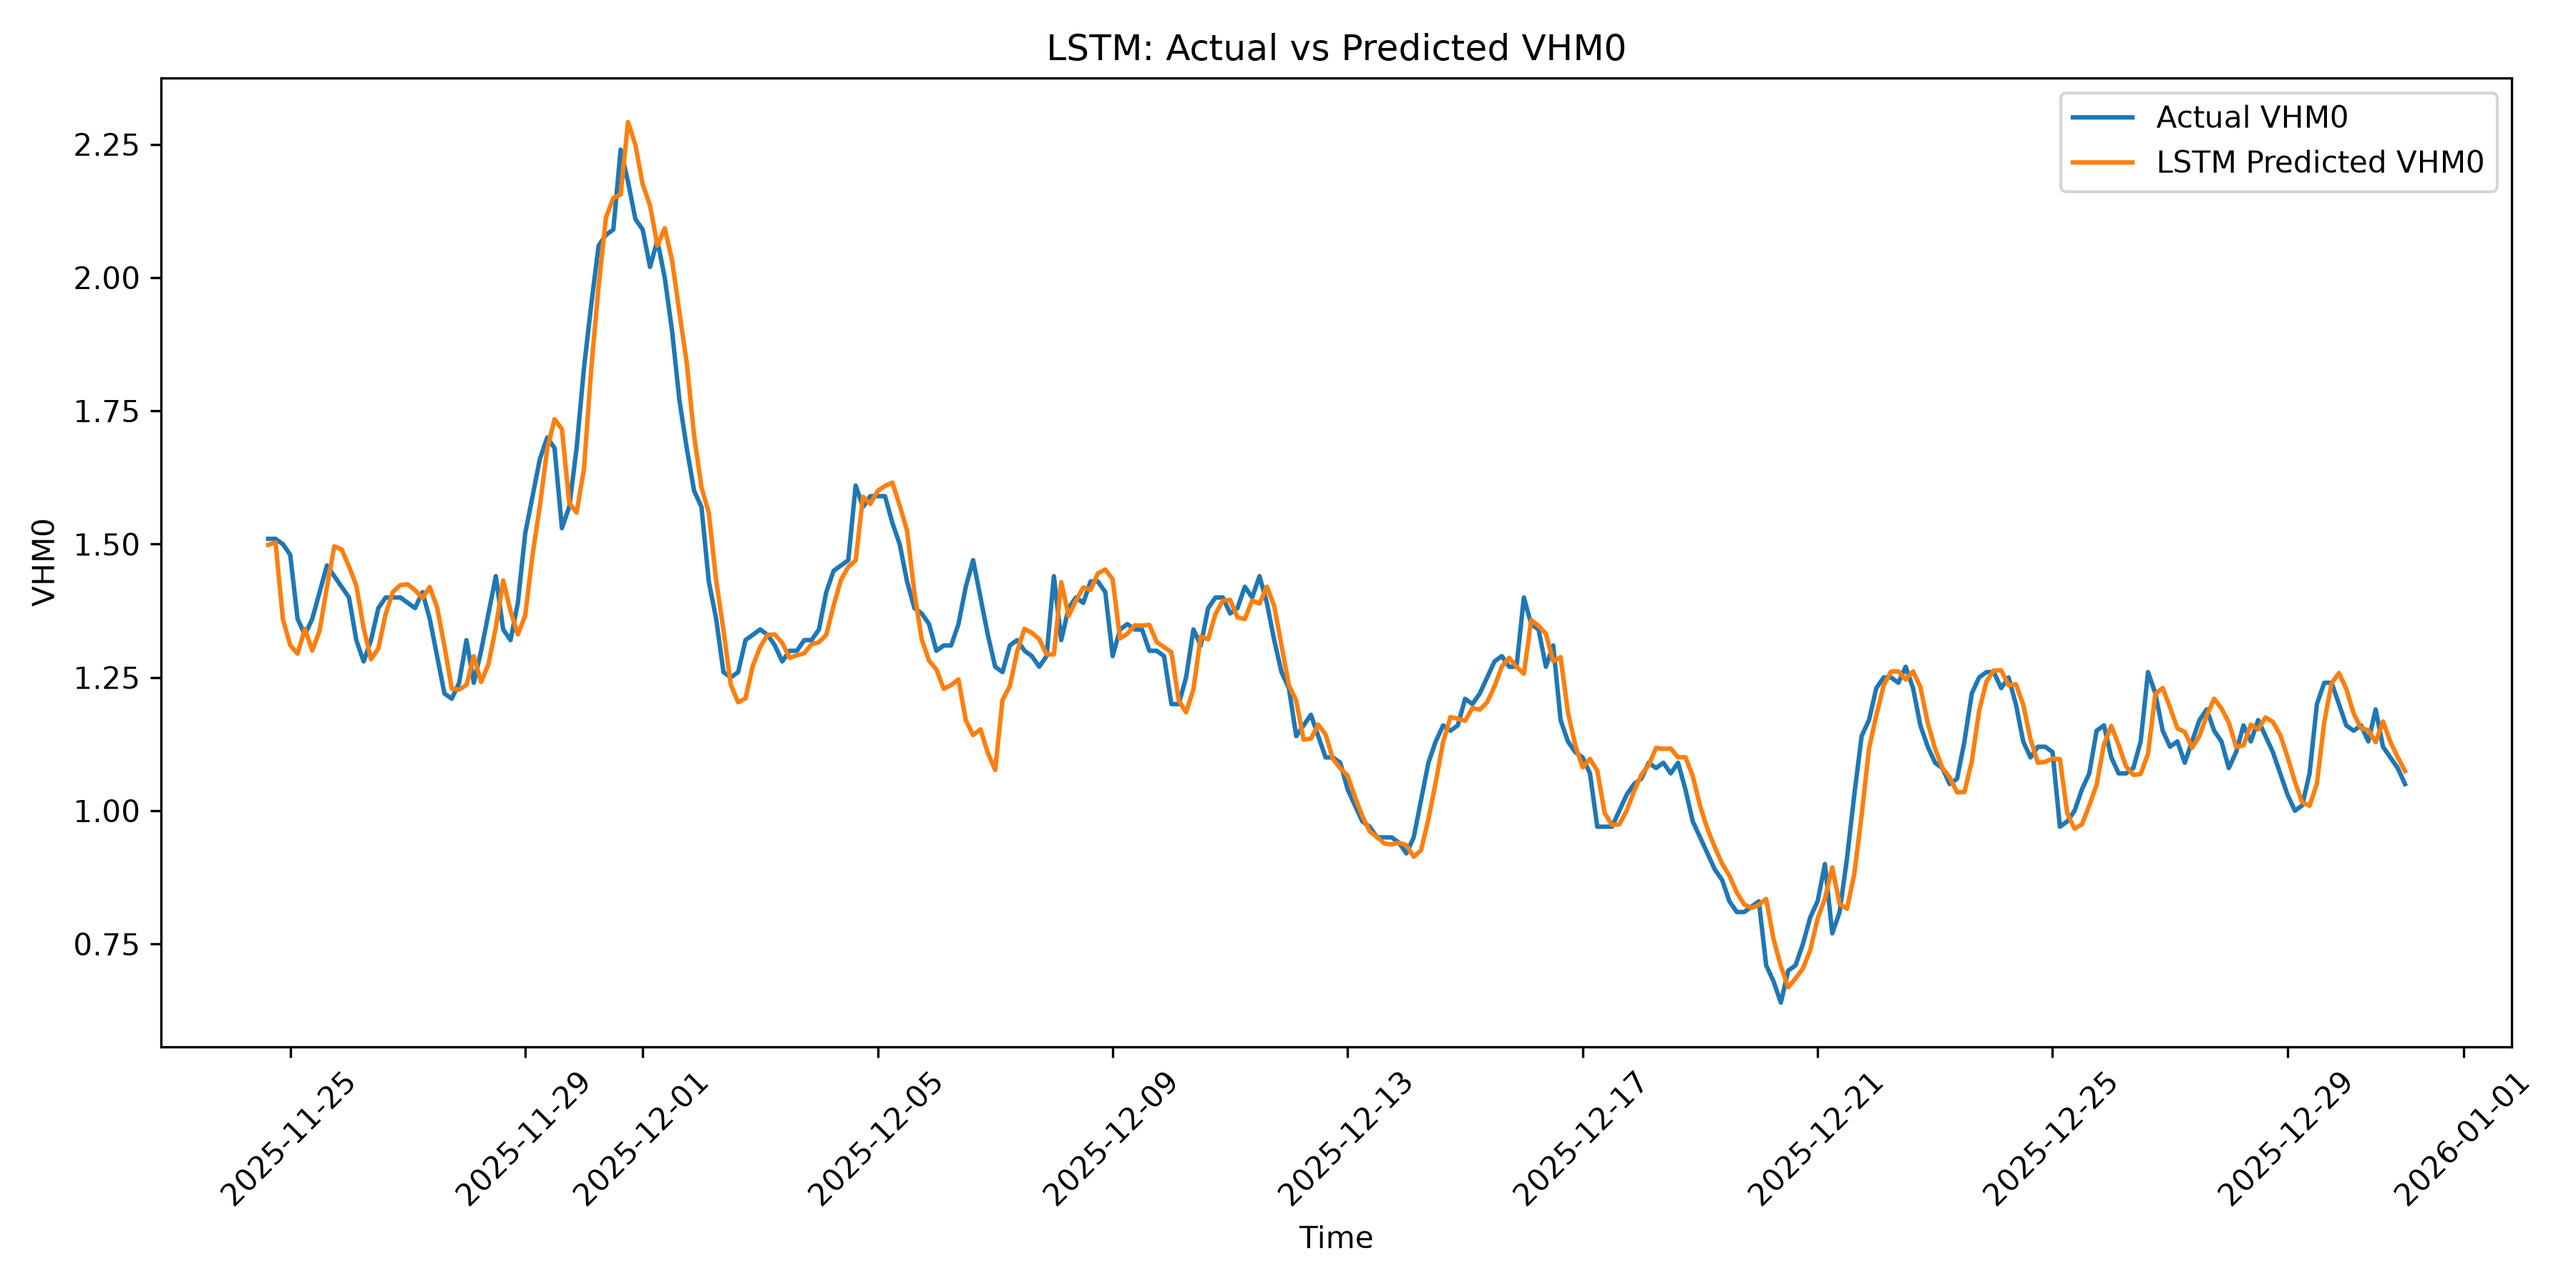
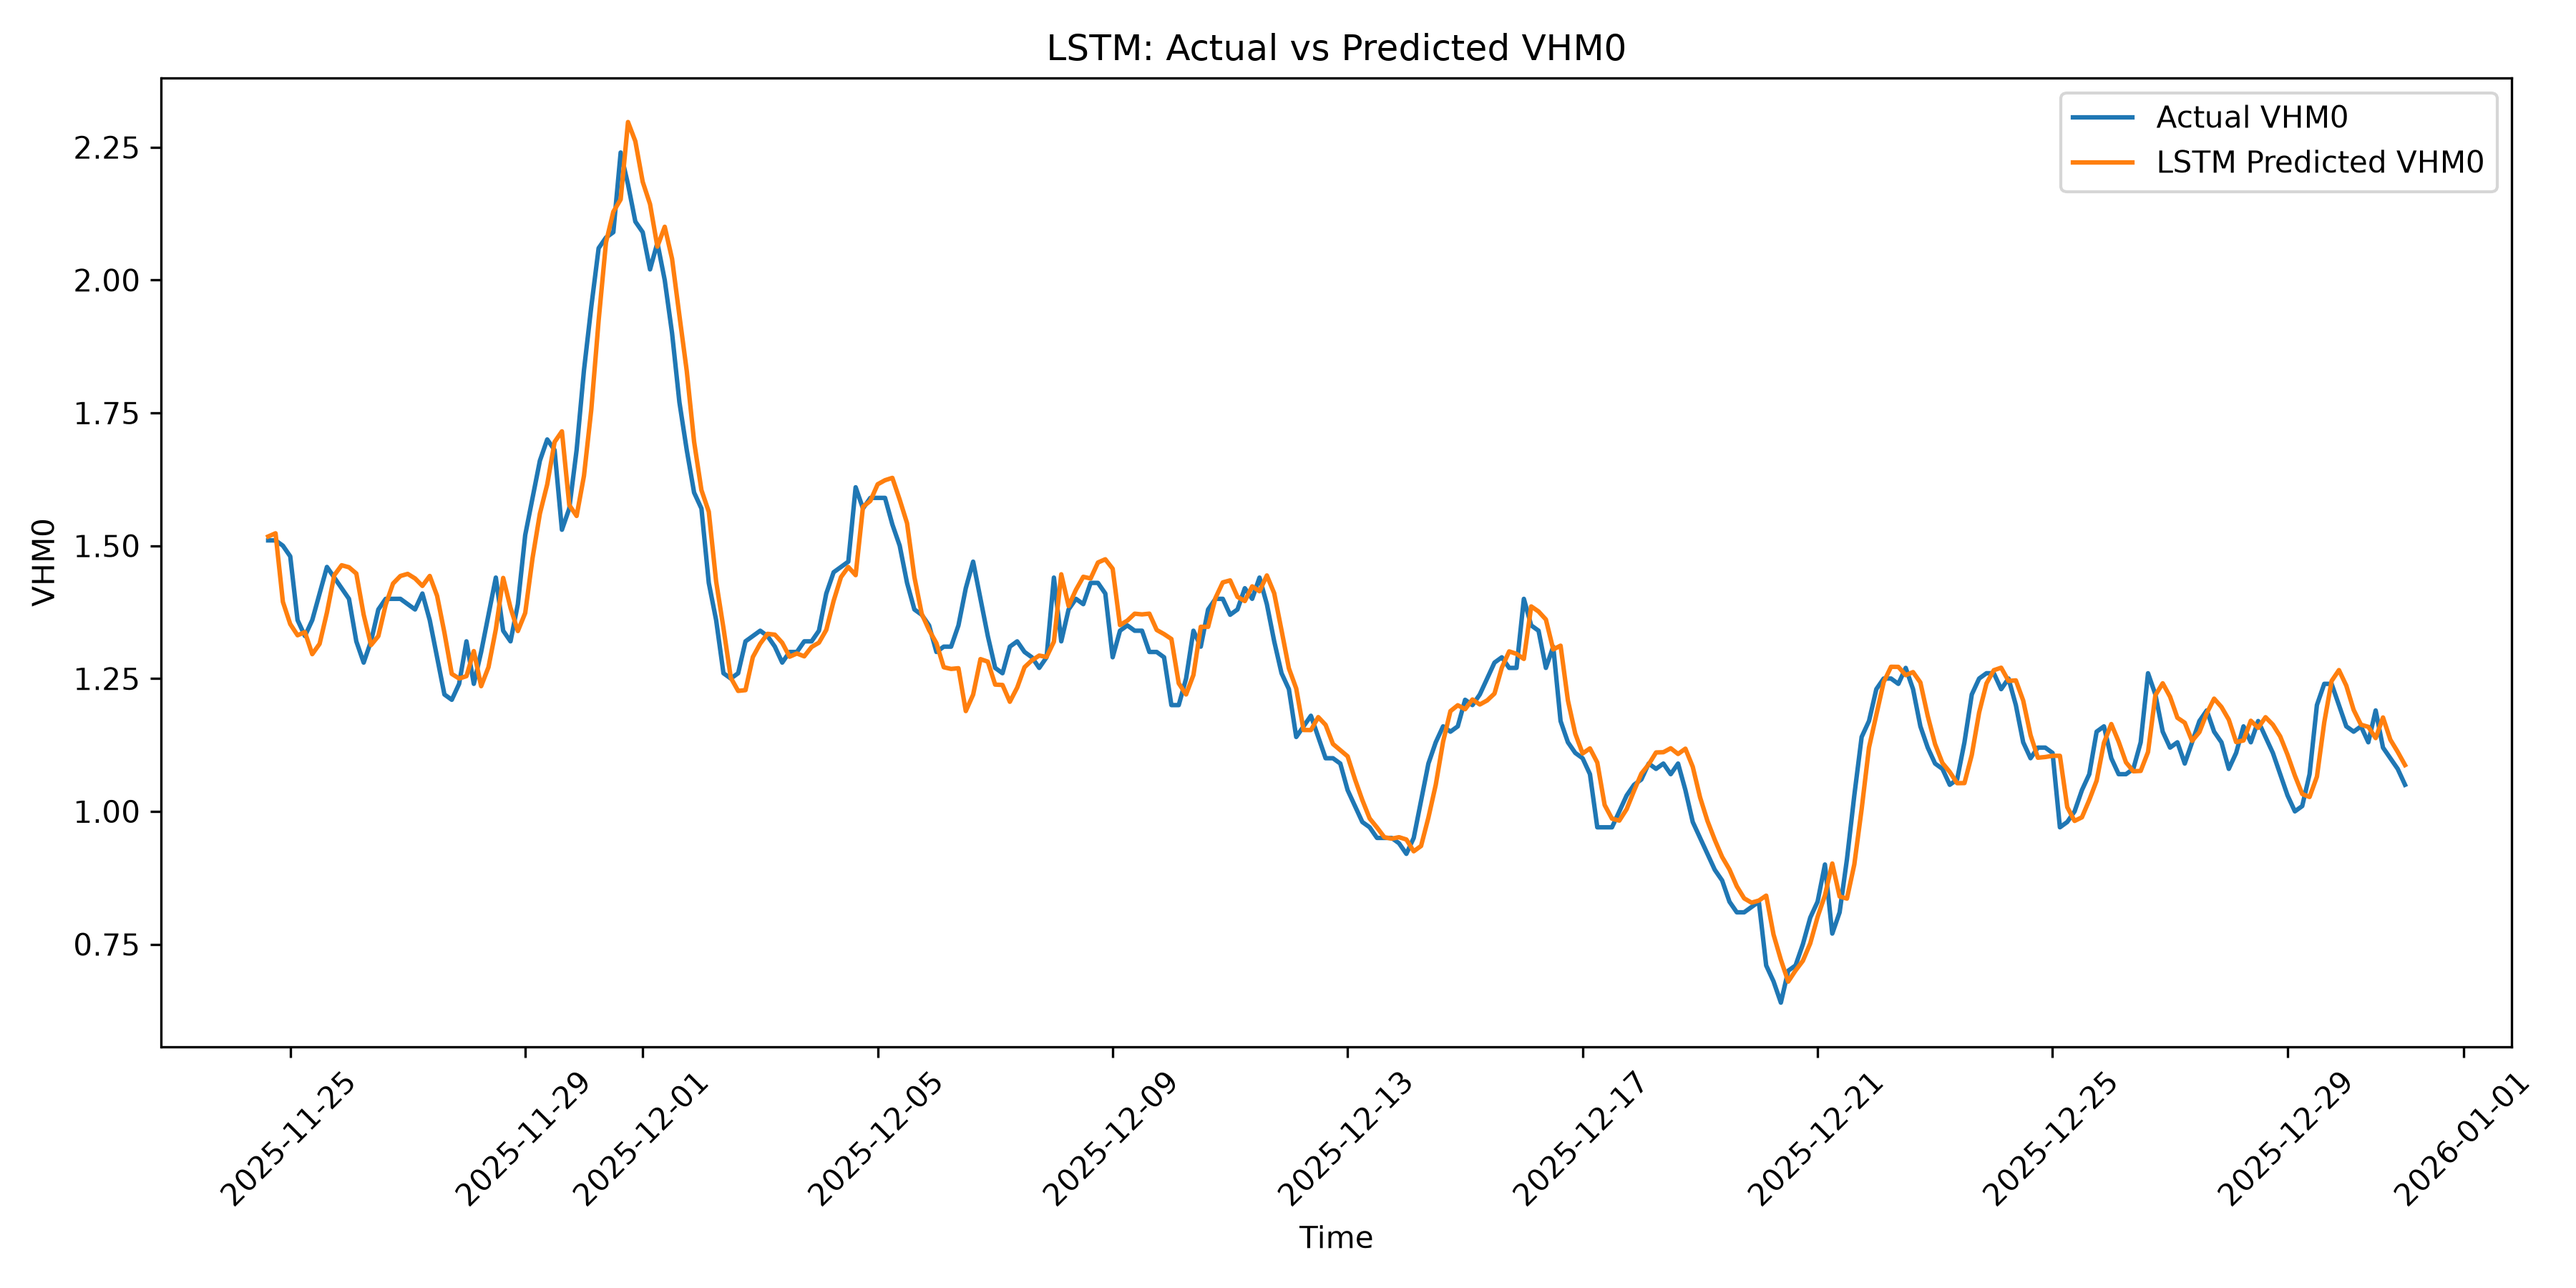
Update ocean route safety and ML results

diff --git a/backend/main.py b/backend/main.py
@@ -1203,7 +1203,9 @@ def point_is_land(
         LAND_GDF is None
         or LAND_GDF.empty
     ):
-        return False
+        raise RuntimeError(
+            "Land data is unavailable; route cannot be considered ocean-safe."
+        )
 
     try:
 
@@ -1215,8 +1217,6 @@ def point_is_land(
         #
         # Natural Earth 10m land polygons are generalized and can
         # incorrectly cover narrow Norwegian fjord water.
-        # This small demo-area exception prevents a false
-        # "vessel is on land" result.
         # --------------------------------------------------------
 
         if (
@@ -1236,9 +1236,15 @@ def point_is_land(
             .any()
         )
 
-    except Exception:
+    except Exception as exc:
 
-        return False
+        print(
+            f"LAND POINT CHECK ERROR: {exc}"
+        )
+
+        raise RuntimeError(
+            "Land point detection failed; route cannot be considered ocean-safe."
+        )
 
 
 def segment_crosses_land(
@@ -1252,8 +1258,9 @@ def segment_crosses_land(
         LAND_GDF is None
         or LAND_GDF.empty
     ):
-
-        return False
+        raise RuntimeError(
+            "Land data is unavailable; route cannot be considered ocean-safe."
+        )
 
     try:
 
@@ -1274,9 +1281,15 @@ def segment_crosses_land(
             .any()
         )
 
-    except Exception:
+    except Exception as exc:
 
-        return False
+        print(
+            f"LAND SEGMENT CHECK ERROR: {exc}"
+        )
+
+        raise RuntimeError(
+            "Land segment detection failed; route cannot be considered ocean-safe."
+        )
 
 
 def route_crosses_land(
@@ -1302,6 +1315,67 @@ def route_crosses_land(
 
     return False
 
+def validate_ocean_route(
+    points,
+    start_lat,
+    start_lon,
+    destination_lat,
+    destination_lon
+):
+
+    if LAND_GDF is None or LAND_GDF.empty:
+        raise RuntimeError(
+            "Land data is unavailable; route cannot be considered ocean-safe."
+        )
+
+    if not points:
+        return False
+
+    if point_is_land(
+        start_lat,
+        start_lon
+    ):
+        return False
+
+    if point_is_land(
+        destination_lat,
+        destination_lon
+    ):
+        return False
+
+    for point in points:
+
+        if point_is_land(
+            point["latitude"],
+            point["longitude"]
+        ):
+            return False
+
+    for i in range(
+        len(points) - 1
+    ):
+
+        if segment_crosses_land(
+            points[i]["latitude"],
+            points[i]["longitude"],
+            points[i + 1]["latitude"],
+            points[i + 1]["longitude"]
+        ):
+            return False
+
+    final_point = points[-1]
+
+    final_distance = haversine_km(
+        final_point["latitude"],
+        final_point["longitude"],
+        destination_lat,
+        destination_lon
+    )
+
+    if final_distance > 1.0:
+        return False
+
+    return True
 
 # ============================================================
 # DISTANCE TO SHORE
@@ -7081,11 +7155,11 @@ def optimize_route_from_ais(
 
         step_distance = min(
 
-            5.0,
+            1.5,
 
             max(
-                0.5,
-                distance / 20.0
+                0.6,
+                distance / 45.0
             )
 
         )
@@ -7255,24 +7329,37 @@ def optimize_route_from_ais(
 
             turn_penalty = abs(float(turn))
 
-            # NORMAL / OPTIMIZED:
-            # Prefer efficient progress toward destination.
+            # Keep PPO steering as the primary navigation decision.
+            # Small deviations are allowed when they improve progress
+            # or help the route remain clear of land.
+            ppo_deviation = abs(
+                float(turn) - float(ppo_turn)
+            )
+
+            # Penalize abrupt steering changes.
+            smoothness_penalty = (
+                abs(float(turn)) * 0.08
+            )
+
+            # Prefer progress while keeping PPO influential.
             if route_mode == "OPTIMIZED":
 
                 candidate_score = (
                     remaining_distance
                     +
-                    (turn_penalty * 0.02)
+                    (ppo_deviation * 0.18)
+                    +
+                    (smoothness_penalty * 0.35)
                 )
 
-            # SAFEST / HIGH_WAVE:
-            # Prefer smoother and more conservative turns.
             else:
 
                 candidate_score = (
                     remaining_distance
                     +
-                    (turn_penalty * 0.12)
+                    (ppo_deviation * 0.25)
+                    +
+                    (smoothness_penalty * 0.60)
                 )
 
             if hazard == "HIGH_WAVE":
@@ -7431,15 +7518,23 @@ def optimize_route_from_ais(
         ):
 
             print(
-            )
-
-            print(
                 "GLOBAL ROUTER: direct path is ocean-safe."
             )
 
             print(
-                "GLOBAL ROUTER: continuing to A* for route optimization."
+                "GLOBAL ROUTER: using direct route."
             )
+
+            return [
+                (
+                    start_lat,
+                    start_lon
+                ),
+                (
+                    goal_lat,
+                    goal_lon
+                )
+            ]
 
         else:
 
@@ -8885,6 +8980,29 @@ def optimize_route_from_ais(
         )
 
     # ========================================================
+    # ========================================================
+    # CENTRAL FINAL OCEAN-SAFETY VALIDATION
+    # ========================================================
+
+    if not validate_ocean_route(
+        route_points,
+        current_lat,
+        current_lon,
+        destination_lat,
+        destination_lon
+    ):
+
+        raise HTTPException(
+
+            status_code=400,
+
+            detail=(
+                "Final route failed ocean-safety validation. "
+                "The vessel, destination, route points, and "
+                "route segments must all be on water."
+            )
+
+        )
     # ROUTE DISTANCE
     # ========================================================
 
@@ -9038,6 +9156,10 @@ def optimize_route_from_ais(
             )
 
     }
+
+
+
+
 
 
 
